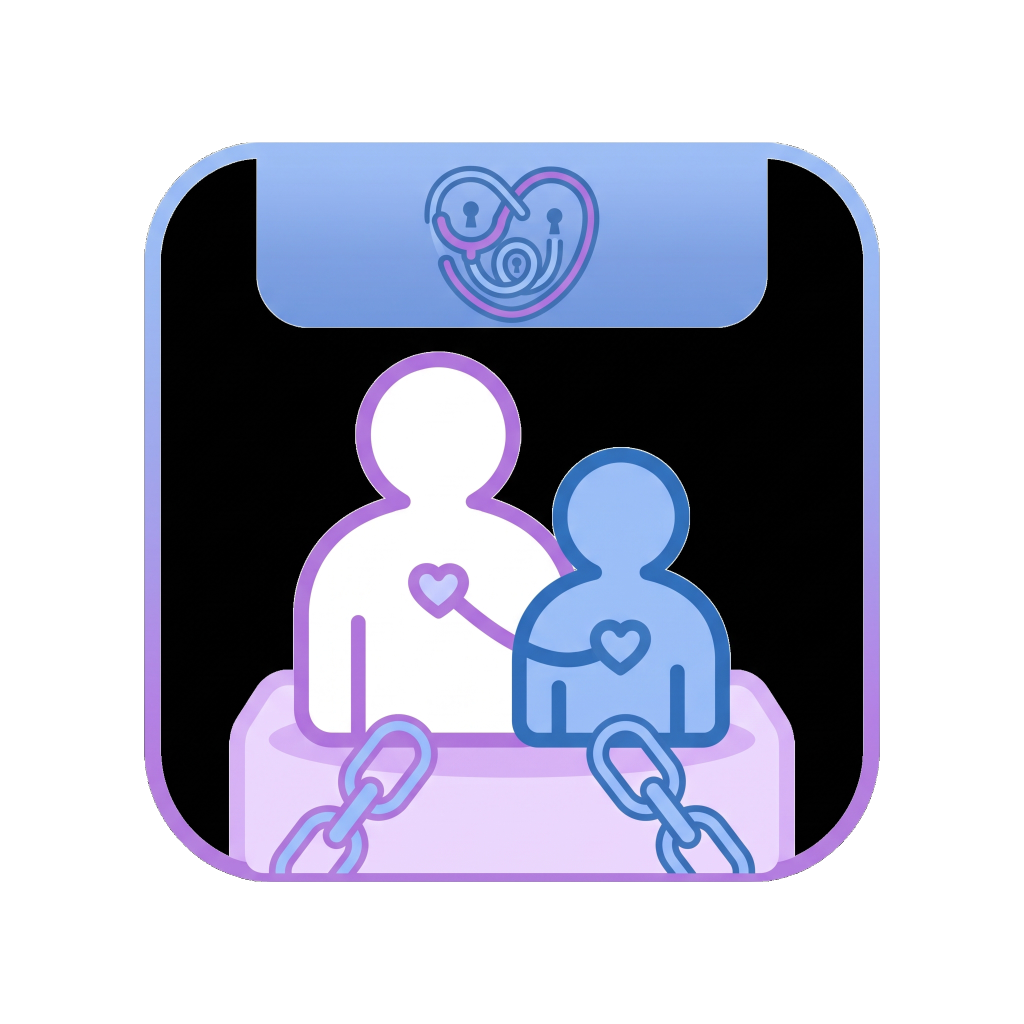
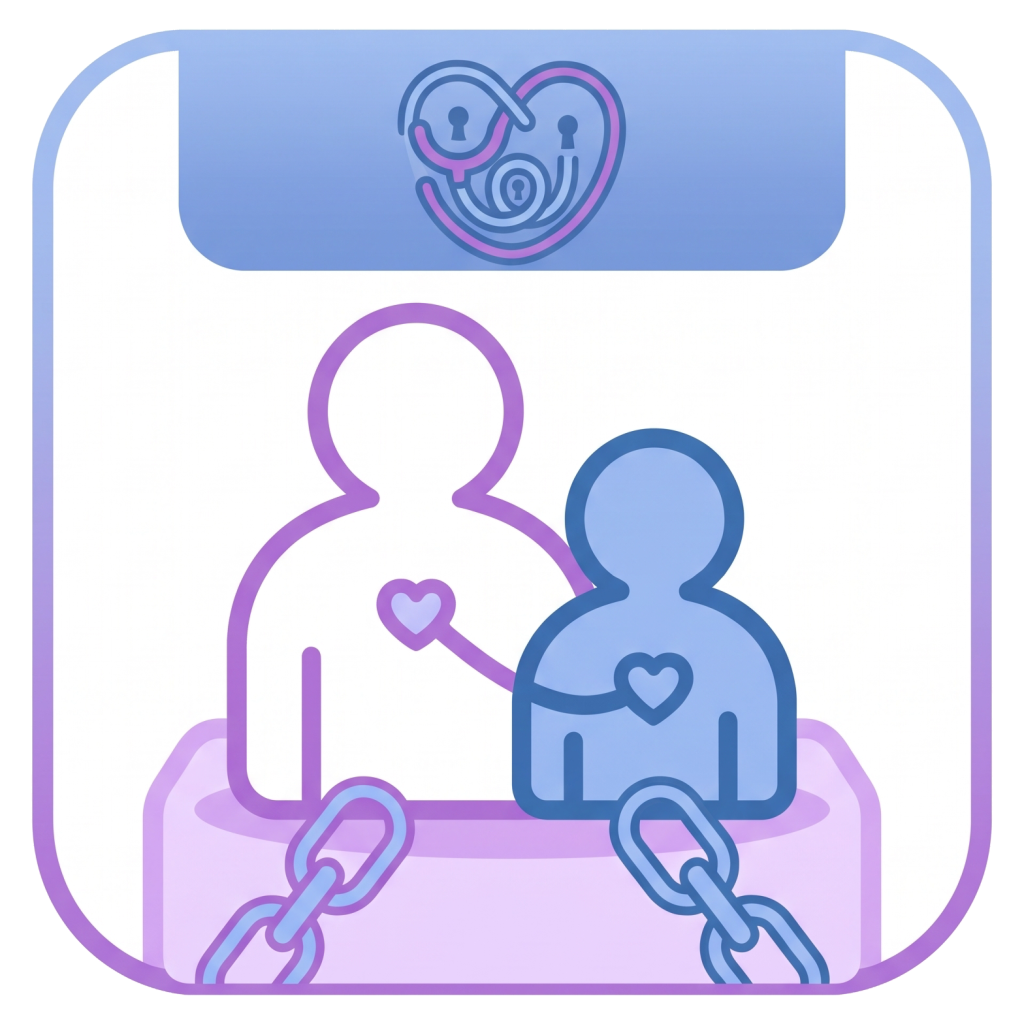
fix(richmenu): 「綁定家屬」圖示改用白底來源，去背裁切更乾淨
前一版來源是黑底 JPG，flood fill 去黑背景後邊緣仍有殘留；改用白底
來源重新去背、依內容邊界自動裁切（含小留白）後縮放至 1024x1024，
與其餘五個圖示的處理流程一致。

Claude-Session: https://claude.ai/code/session_01PTktmKzYiKV7RFRQmJBZs6

diff --git a/functions/assets/richmenu-icons/README.md b/functions/assets/richmenu-icons/README.md
@@ -19,7 +19,7 @@
 | `guide.png` | 使用說明 | 藍色翻開書本 |
 | `drug-check.png` | （已下架，選單改為「綁定家屬」） | 青紫放大鏡檢視膠囊，保留檔案供未來復用 |
 | `schedule.png` | 服藥時間表 | 紫色印表機列印清單 |
-| `family-bind.png` | 綁定家屬 | 兩人並肩＋愛心＋鏈接圖示（人工設計，非 AI 生圖，2026-09-17 手動去黑背景） |
+| `family-bind.png` | 綁定家屬 | 兩人並肩＋愛心＋鏈接圖示（人工設計，非 AI 生圖；2026-09-17 白底原圖去背、裁切至內容邊界後縮放至 1024x1024） |
 
 ## 之後要換圖怎麼做
 
